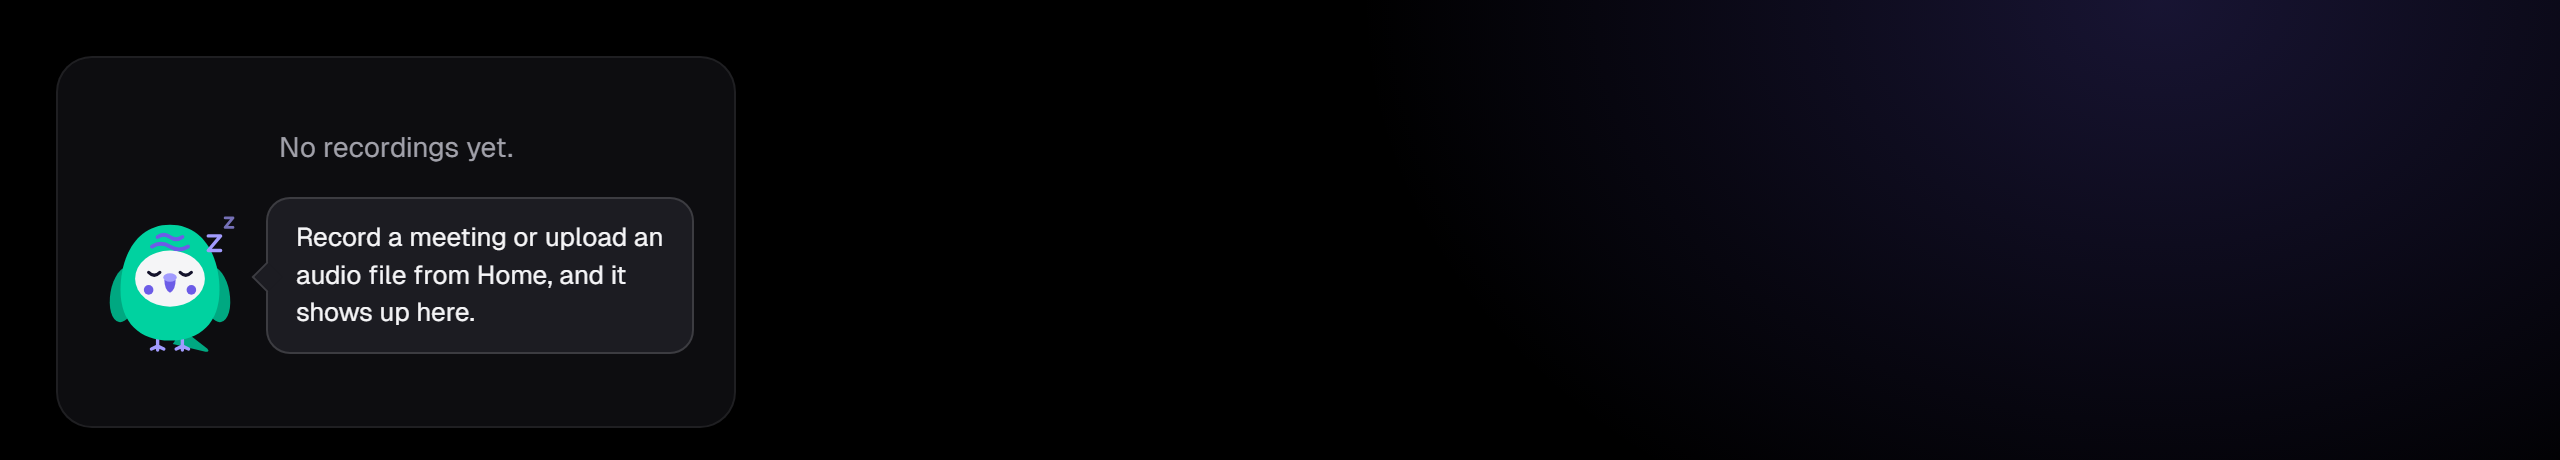
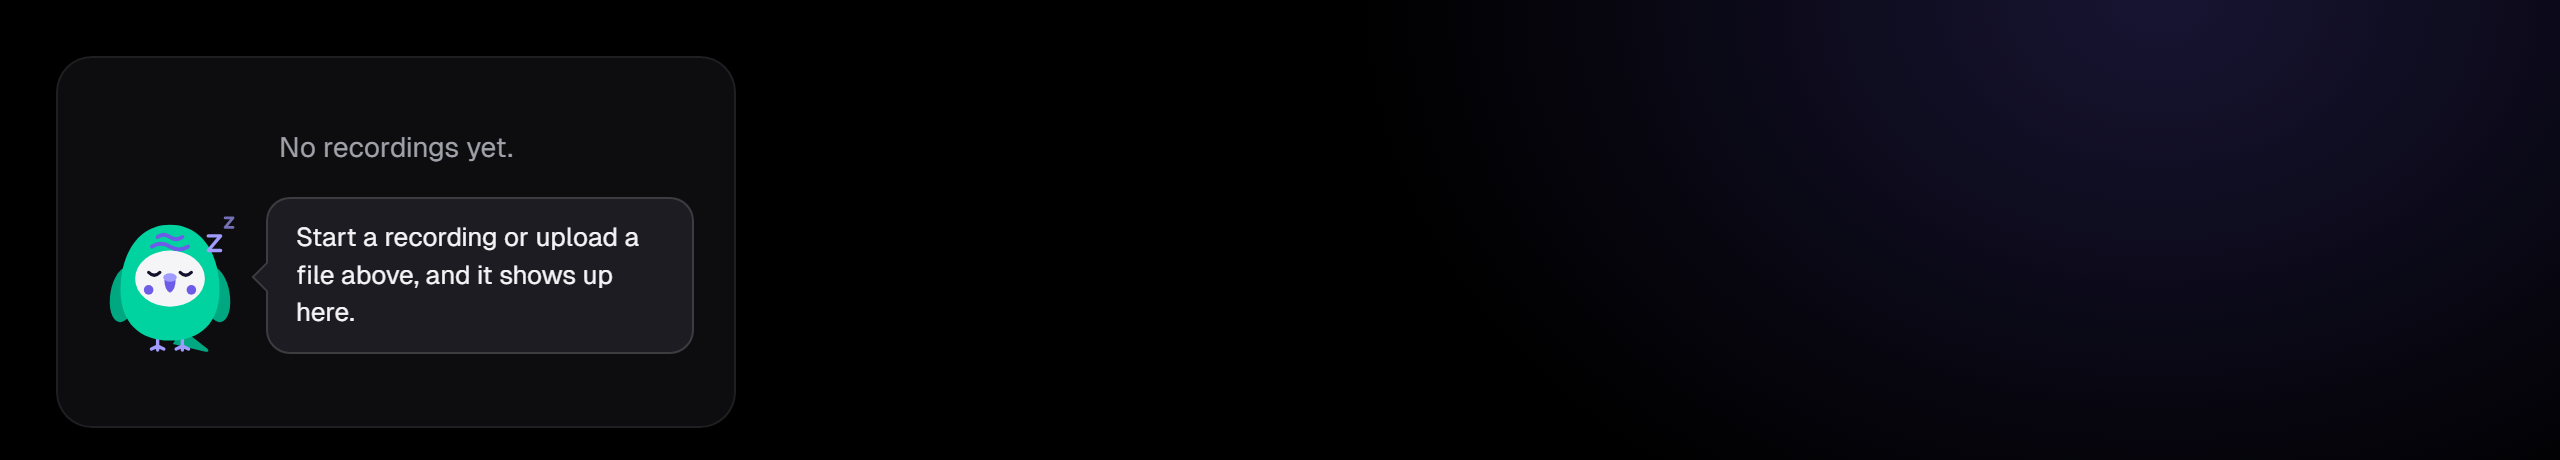
Address review findings on the Pip setup and empty-state change
The empty-list hint now points at the Start recording and upload controls
that sit above the list. A Pip host dropped with the empty list is
unmounted first, so Show Pip no longer redraws detached hosts. pip_poses.py
writes the empty-list image next to --out and says its markup is a copy;
a test fails when the copy drifts from the dashboard. The setup-mount test
now checks the real loop and that the line is never set as markup.

Changed region(s): [[0.0938, 0.5783, 0.25, 0.6391], [0.0938, 0.487, 0.25, 0.5478], [0.0938, 0.6696, 0.1875, 0.7]]

diff --git a/src/nexusvox/dashboard/static/dashboard-recordings.js b/src/nexusvox/dashboard/static/dashboard-recordings.js
@@ -270,7 +270,13 @@ function shownRecordings() {
 }
 
 // What Pip says over an empty list; it is only a hint, so it names no recording content.
-const REC_EMPTY_PIP_LINE = "Record a meeting or upload an audio file from Home, and it shows up here.";
+const REC_EMPTY_PIP_LINE = "Start a recording or upload a file above, and it shows up here.";
+
+// A Pip host that is thrown away with the empty list is released first, so Show Pip does not keep redrawing it.
+function dropEmptyPip() {
+  const host = recList.querySelector(".rec-empty-pip");
+  if (host) unmountPip(host);
+}
 
 function recordingRowHtml(item) {
   return `<button type="button" class="rec-row" data-id="${item.id}" data-kind="${item.kind === "meeting" ? "meeting" : "upload"}">
@@ -294,6 +300,7 @@ function renderRecordingList() {
     // The list redraws on every poll; an empty list that is already drawn stays, so Pip's breathing is not restarted.
     if (recList.dataset.empty === message) return;
     recList.dataset.empty = message;
+    dropEmptyPip();
     recList.innerHTML = `<li class="empty-state">${message}</li>`;
     if (!recItems.length) {
       const host = document.createElement("div");
@@ -303,6 +310,7 @@ function renderRecordingList() {
     }
     return;
   }
+  if (recList.dataset.empty) dropEmptyPip();
   delete recList.dataset.empty;
   const existing = new Map([...recList.children].filter((li) => li.dataset.id).map((li) => [li.dataset.id, li]));
   const rows = shown.map((item) => {

diff --git a/tests/test_pip.py b/tests/test_pip.py
@@ -5,6 +5,7 @@ import json
 import re
 import shutil
 import subprocess
+from pathlib import Path
 
 import pytest
 from dashboard_js import STATIC
@@ -259,13 +260,22 @@ def test_every_setup_step_has_a_pip_host_with_one_short_sentence():
     )
 
 
-def test_the_setup_mounts_its_hosts_through_mountpip_and_they_start_hidden():
-    assert "mountPip(host" in SETUP_JS and "data-pip-line" not in SETUP_JS.split("mountPip(host")[0].split("\n")[-1]
-    assert "host.dataset.pipLine" in SETUP_JS
-    assert "innerHTML" not in SETUP_JS.split("mountPip(host")[1].split("}")[0]  # text only, never markup
-    assert re.search(
-        r"\.setup-pip\[hidden\]\s*\{\s*display:\s*none", (STATIC / "setup.css").read_text(encoding="utf-8")
-    )
+def test_the_setup_mounts_its_hosts_through_mountpip_as_text_and_they_start_hidden():
+    block = re.search(r'for \(const host of setupEl\.querySelectorAll\("\.setup-pip"\)\) \{(.*?)\n\}', SETUP_JS, re.S)
+    assert block, "the setup no longer mounts its .setup-pip hosts in one loop"
+    assert "mountPip(host" in block.group(1) and "bubble: host.dataset.pipLine" in block.group(1)
+    assert "innerHTML" not in block.group(1)
+    assert not re.search(r"innerHTML\s*=\s*host\.dataset", SETUP_JS)  # the line is never parsed as markup
+    css = (STATIC / "setup.css").read_text(encoding="utf-8")
+    assert re.search(r"\.setup-pip\[hidden\]\s*\{\s*display:\s*none", css)
+
+
+def test_the_empty_list_photo_page_matches_the_markup_the_dashboard_draws():
+    photo = (Path(__file__).resolve().parents[1] / "scripts" / "pip_poses.py").read_text(encoding="utf-8")
+    for needle in ('<li class="empty-state">', 'host.className = "rec-empty-pip"', 'pose: "sleeping", size: 72'):
+        assert needle in RECORDINGS_JS, needle
+        assert needle in photo.replace("{{", "{").replace("}}", "}"), needle
+    assert "unmountPip(host)" in RECORDINGS_JS  # a dropped empty list releases its host
 
 
 def test_the_empty_recordings_list_shows_pip_sleeping_with_one_line_and_keeps_its_text():
@@ -274,7 +284,7 @@ def test_the_empty_recordings_list_shows_pip_sleeping_with_one_line_and_keeps_it
     line = re.search(r'REC_EMPTY_PIP_LINE = "([^"]+)"', RECORDINGS_JS).group(1)
     assert line.count(". ") == 0 and len(line) <= 90
     # Pip only appears for an empty library, not for a search without a match.
-    assert "if (!recItems.length) {" in RECORDINGS_JS.split("mountPip(host")[0].split("recList.innerHTML")[1]
+    assert "if (!recItems.length) {" in RECORDINGS_JS.split(" mountPip(host")[0].split("recList.innerHTML")[1]
 
 
 @needs_node

diff --git a/scripts/pip_poses.py b/scripts/pip_poses.py
@@ -4,7 +4,8 @@
 
 A throwaway page loads `style.css` and `dashboard-pip.js` from the dashboard's static folder and mounts Pip once
 per pose (idle, blink, head tilt, sleeping) plus once with a speech bubble. It also writes the empty Recordings list
-with Pip sleeping to `pip-empty-recordings.png`. The bubble text is invented sample data, counts only.
+with Pip sleeping next to the first image (`--out`'s folder) as `pip-empty-recordings.png`.
+The bubble text is invented sample data, counts only.
 Nothing here touches your config, your database or the network, and the browser is headless: no window opens.
 The idle motion is switched off for the picture, so two runs give the same image.
 """
@@ -101,7 +102,8 @@ EMPTY_PAGE = """<!doctype html>
 
 
 def empty_recordings_page(directory: Path) -> Path:
-    """The empty Recordings list as the dashboard draws it: the same markup, style sheets and Pip component."""
+    """The empty Recordings list: a hand-kept copy of the markup `renderRecordingList` draws, with the real style
+    sheets, Pip component and bubble text. `tests/test_pip.py` fails when the copy and the script drift apart."""
     import json
 
     text = (STATIC / "dashboard-recordings.js").read_text(encoding="utf-8")
@@ -153,7 +155,7 @@ def main(argv: list[str] | None = None) -> int:
     parser.add_argument("--scale", type=float, default=2.0, help="device pixel ratio of the image (default: 2)")
     args = parser.parse_args(argv)
     run(args.out, args.browser, args.scale)
-    run_empty(EMPTY_OUT, args.browser, args.scale)
+    run_empty(args.out.with_name(EMPTY_OUT.name), args.browser, args.scale)
     return 0
 
 
